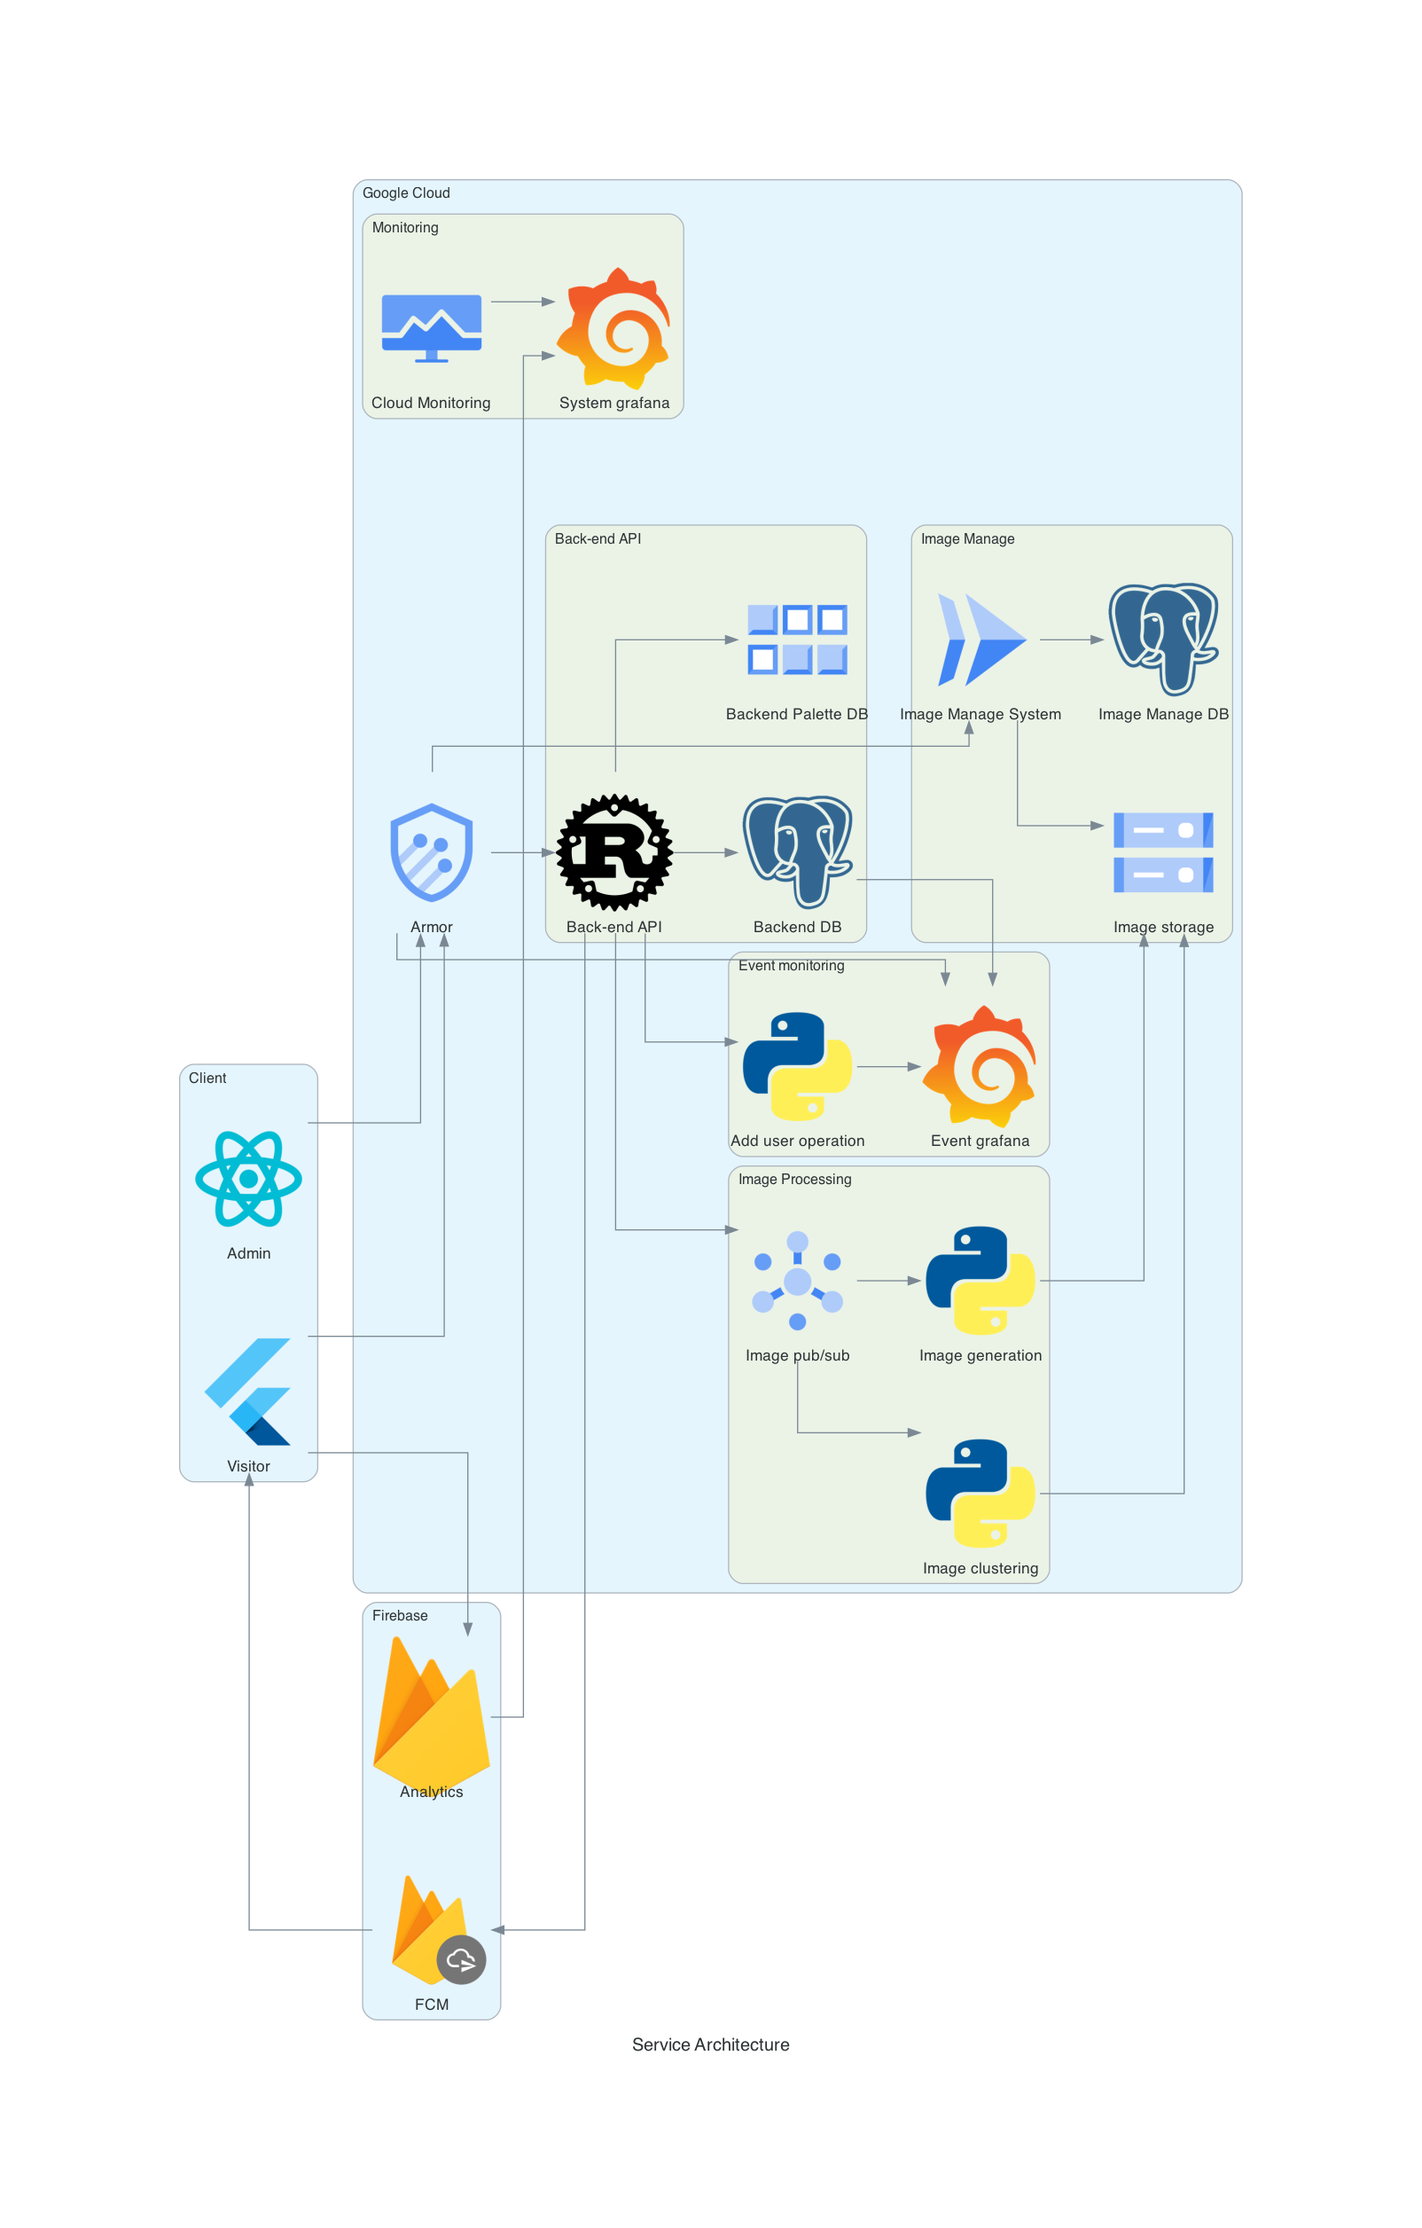
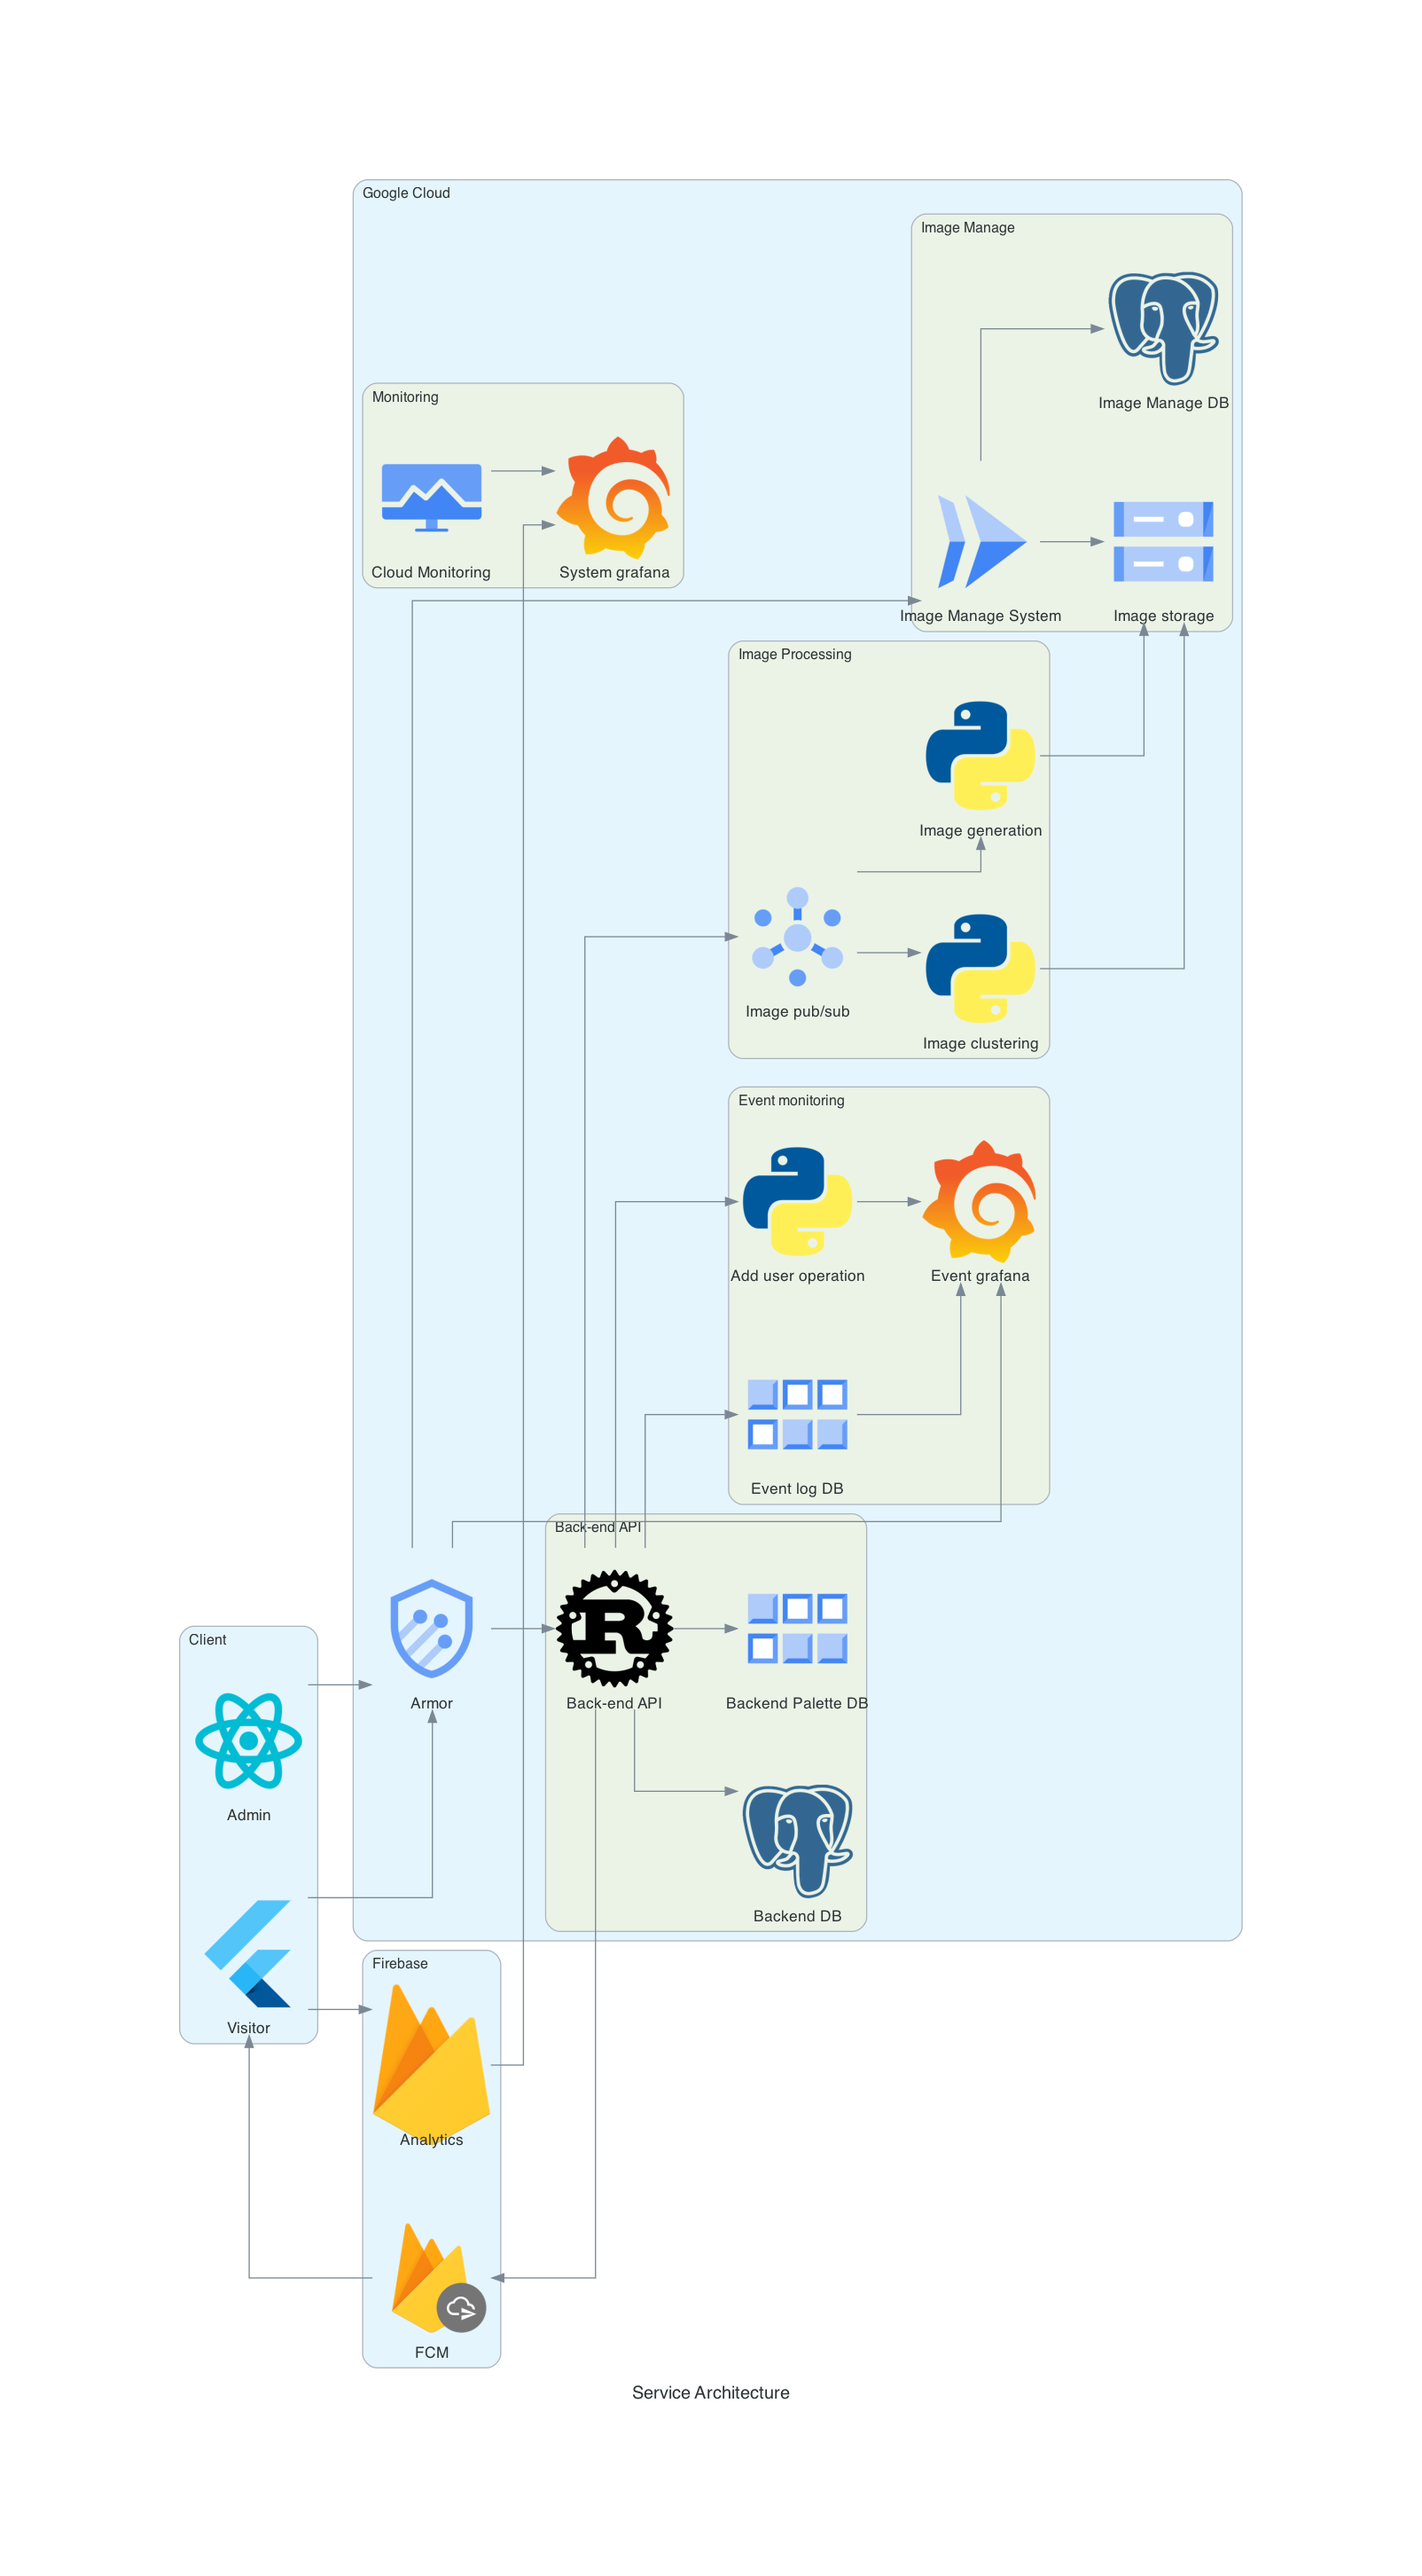
feat(diagrams): add event log

diff --git a/diagrams/architecture/__init__.py b/diagrams/architecture/__init__.py
@@ -44,6 +44,7 @@ def drawArchitecture(is_service=False):
         with Cluster("Event monitoring"):
             event_grafana_run = Run("Event grafana") if not is_service else Grafana("Event grafana")
             user_grafana_func = Functions("Add user operation") if not is_service else Python("Add user operation")
+            event_log_nosql = Datastore("Event log DB")
 
     with Cluster("Firebase"):
         analytics = Firebase("Analytics")
@@ -59,9 +60,10 @@ def drawArchitecture(is_service=False):
     backend_app >> backend_sql
     backend_app >> backend_nosql
     backend_app >> fcm >> visitor_mobile
+    backend_app >> event_log_nosql
 
     backend_app >> user_grafana_func >> event_grafana_run
-    backend_sql >> event_grafana_run
+    event_log_nosql >> event_grafana_run
 
     backend_app >> image_pubsub
     image_pubsub >> image_clustering_func >> image_storage
@@ -82,6 +84,7 @@ def drawArchitecture(is_service=False):
         image_clustering_func >> monitoring
         image_gen_func >> monitoring
         image_pubsub >> monitoring
+        event_log_nosql >> monitoring
 
     visitor_mobile >> analytics
 
